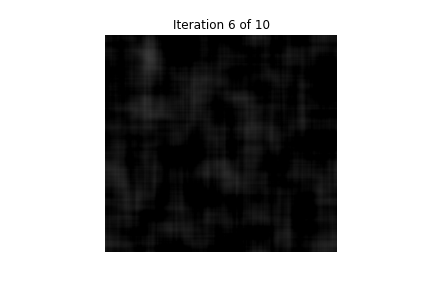
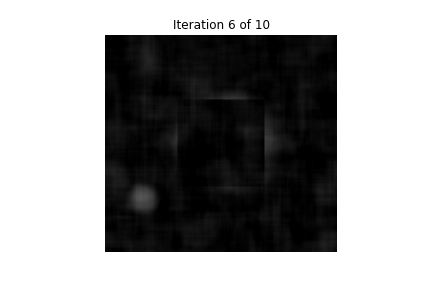
Lab 6 Version 1 functionally complete.
Could and probably should add comment headers.

diff --git a/Lab 6/lab6V1_nedillon.py b/Lab 6/lab6V1_nedillon.py
@@ -9,9 +9,9 @@
 # Electrical and Computer Engineering
 # All rights reserved.
 #
-# Student name: Nathan Edillon 98%
+# Student name: Nathan Edillon 95%
 # Student CCID: nedillon
-# Others: GOLDEN 2%
+# Others: GOLDEN 2%, TOPGUN 3%
 #
 # To avoid plagiarism, list the names of persons, Version 0 author(s)
 # excluded, whose code, words, ideas, or data you used. To avoid
@@ -76,12 +76,12 @@ def idft2(IMa,IMp):
     im[im > 1] = 1
     return im
 
-def gerchbergSaxton(im,maxIters,_):
+def gerchbergSaxton(im,maxIters,Dphi):
     (IMa,IMp) = dft2(im)
     images = []
     for k in range(maxIters+1):
         print("Iteration %d of %d" % (k,maxIters))
-        im = idft2(IMa,IMp)
+        im = idft2(IMa,IMp+(k/maxIters*Dphi))
         images.append(im)
     return images
 
